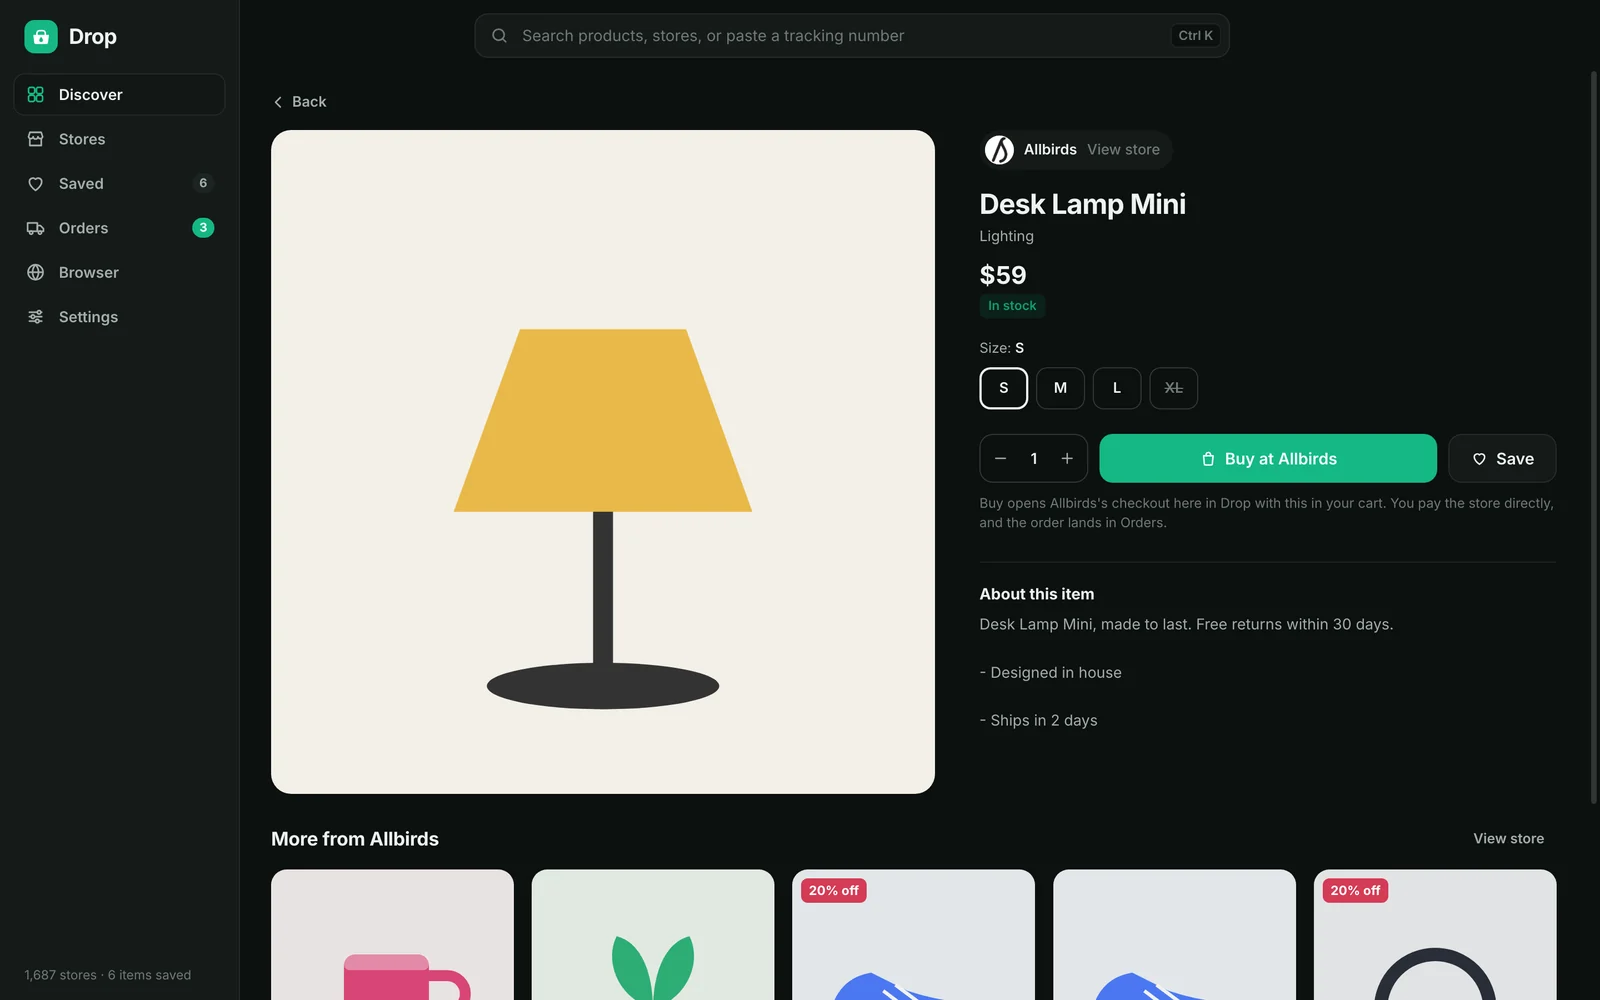
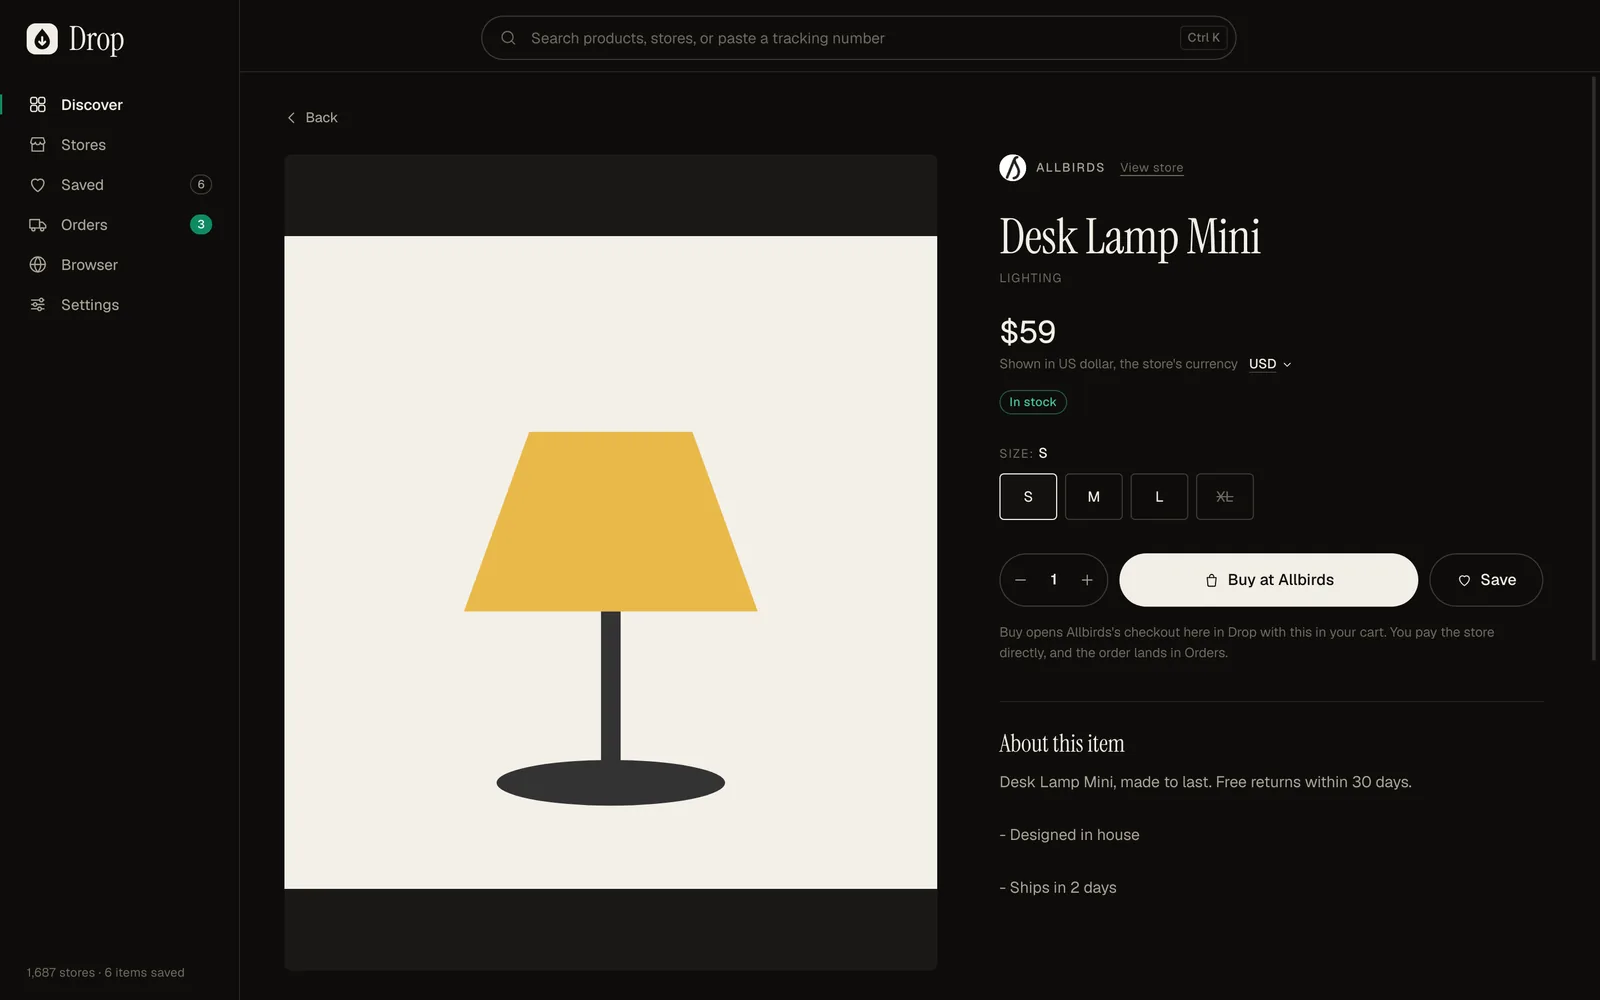
Site: Drop 1.5 screenshots and notes

diff --git a/index.html b/index.html
@@ -1116,7 +1116,7 @@ footer a:hover{color:#fff}
       <a class="btn btn-dr" href="https://github.com/mabdulhadi0208-afk/mabdulhadi0208-afk-cart/releases/latest/download/Drop-mac-arm64.dmg"><svg viewBox="0 0 24 24" fill="currentColor"><path d="M16.4 12.6c0-2.4 2-3.6 2.1-3.6-1.1-1.7-2.9-1.9-3.5-1.9-1.5-.2-2.9.9-3.7.9-.8 0-1.9-.9-3.2-.8-1.6 0-3.1 1-4 2.4-1.7 3-.4 7.4 1.2 9.8.8 1.2 1.8 2.5 3 2.4 1.2 0 1.7-.8 3.1-.8 1.5 0 1.9.8 3.2.8 1.3 0 2.2-1.2 3-2.4.9-1.4 1.3-2.7 1.3-2.8 0 0-2.5-1-2.5-4zM14 5.4c.7-.8 1.1-1.9 1-3-1 0-2.1.7-2.8 1.5-.6.7-1.2 1.8-1 2.9 1.1.1 2.1-.6 2.8-1.4z"/></svg><span class="t">Download for Mac<small>Apple Silicon</small></span></a>
       <a class="btn btn-g" href="https://github.com/mabdulhadi0208-afk/mabdulhadi0208-afk-cart/releases/latest/download/Drop-win-x64.exe"><span class="t">Windows<small>10 and 11</small></span></a>
     </div>
-    <p class="subdl">For Apple Silicon Macs and Windows. Drop 1.4 updates itself and shows What's new after each update. New in 1.4: Discover opens at once with the products you saw last, store and product pages load about twice as fast, no more waiting on animations, and a new icon.</p>
+    <p class="subdl">For Apple Silicon Macs and Windows. Drop 1.5 updates itself and shows What's new after each update. New in 1.5: every price in the currency you choose, converted with daily rates, and a finer, quieter look with serif headings, warm paper and deep ink.</p>
     <div class="stage wd">
       <div class="frame"><img src="shots/drop-home-dark.webp" alt="Drop Discover in dark mode: a feed of real products from stores" width="1600" height="1000"></div>
     </div>
